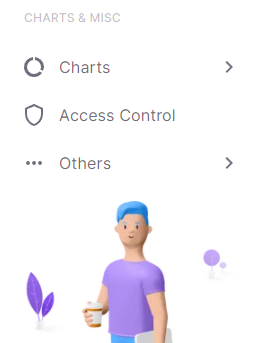
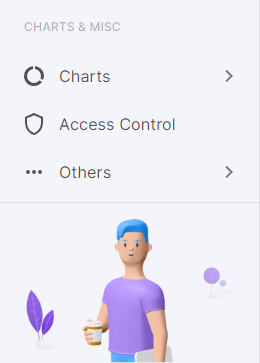
feat(vertical-menu): before & after content position
Add an option for before & after content to get or not to get scrolled with the menu

diff --git a/typescript-version/full-version/src/@core/layouts/components/vertical/navigation/index.tsx b/typescript-version/full-version/src/@core/layouts/components/vertical/navigation/index.tsx
@@ -13,6 +13,8 @@ import PerfectScrollbar from 'react-perfect-scrollbar'
 import { Settings } from 'src/@core/context/settingsContext'
 import { VerticalNavItemsType } from 'src/@core/layouts/types'
 
+import themeConfig from 'src/configs/themeConfig'
+
 // ** Component Imports
 import Drawer from './Drawer'
 import VerticalNavItems from './VerticalNavItems'
@@ -76,6 +78,7 @@ const Navigation = (props: Props) => {
 
   // ** Var
   const { skin } = settings
+  const { afterVerticalNavMenuContentPosition, beforeVerticalNavMenuContentPosition } = themeConfig
 
   // ** Fixes Navigation InfiniteScroll
   const handleInfiniteScroll = (ref: HTMLElement) => {
@@ -94,16 +97,18 @@ const Navigation = (props: Props) => {
 
   // ** Scroll Menu
   const scrollMenu = (container: any) => {
-    container = hidden ? container.target : container
-    if (shadowRef && container.scrollTop > 0) {
-      // @ts-ignore
-      if (!shadowRef.current.classList.contains('d-block')) {
+    if (beforeVerticalNavMenuContentPosition === 'static') {
+      container = hidden ? container.target : container
+      if (shadowRef && container.scrollTop > 0) {
         // @ts-ignore
-        shadowRef.current.classList.add('d-block')
+        if (!shadowRef.current.classList.contains('d-block')) {
+          // @ts-ignore
+          shadowRef.current.classList.add('d-block')
+        }
+      } else {
+        // @ts-ignore
+        shadowRef.current.classList.remove('d-block')
       }
-    } else {
-      // @ts-ignore
-      shadowRef.current.classList.remove('d-block')
     }
   }
 
@@ -131,7 +136,12 @@ const Navigation = (props: Props) => {
   return (
     <Drawer {...props}>
       <VerticalNavHeader {...props} />
-      <StyledBoxForShadow ref={shadowRef} sx={{ background: shadowBgColor() }} />
+      {beforeVerticalNavMenuContent && beforeVerticalNavMenuContentPosition === 'fixed'
+        ? beforeVerticalNavMenuContent(props)
+        : null}
+      {beforeVerticalNavMenuContentPosition === 'static' && (
+        <StyledBoxForShadow ref={shadowRef} sx={{ background: shadowBgColor() }} />
+      )}
       <Box sx={{ position: 'relative', overflow: 'hidden' }}>
         {/* @ts-ignore */}
         <ScrollWrapper
@@ -146,7 +156,9 @@ const Navigation = (props: Props) => {
                 onScrollY: (container: any) => scrollMenu(container)
               })}
         >
-          {beforeVerticalNavMenuContent ? beforeVerticalNavMenuContent(props) : null}
+          {beforeVerticalNavMenuContent && beforeVerticalNavMenuContentPosition === 'static'
+            ? beforeVerticalNavMenuContent(props)
+            : null}
           {userVerticalNavMenuContent ? (
             userVerticalNavMenuContent(props)
           ) : (
@@ -160,9 +172,14 @@ const Navigation = (props: Props) => {
               />
             </List>
           )}
-          {afterVerticalNavMenuContent ? afterVerticalNavMenuContent(props) : null}
+          {afterVerticalNavMenuContent && afterVerticalNavMenuContentPosition === 'static'
+            ? afterVerticalNavMenuContent(props)
+            : null}
         </ScrollWrapper>
       </Box>
+      {afterVerticalNavMenuContent && afterVerticalNavMenuContentPosition === 'fixed'
+        ? afterVerticalNavMenuContent(props)
+        : null}
     </Drawer>
   )
 }

diff --git a/typescript-version/full-version/src/configs/themeConfig.ts b/typescript-version/full-version/src/configs/themeConfig.ts
@@ -20,6 +20,7 @@ type ThemeConfig = {
   footer: Footer
   mode: PaletteMode
   navHidden: boolean
+  navSubItemIcon: any
   direction: Direction
   templateName: string
   navCollapsed: boolean
@@ -27,7 +28,6 @@ type ThemeConfig = {
   disableRipple: boolean
   navigationSize: number
   menuTextTruncate: boolean
-  navSubItemIcon: any
   contentWidth: ContentWidth
   disableCustomizer: boolean
   responsiveFontSizes: boolean
@@ -36,6 +36,8 @@ type ThemeConfig = {
   layout: 'vertical' | 'horizontal'
   verticalNavToggleType: VerticalNavToggle
   horizontalMenuToggle: HorizontalMenuToggle
+  afterVerticalNavMenuContentPosition: 'fixed' | 'static'
+  beforeVerticalNavMenuContentPosition: 'fixed' | 'static'
   toastPosition: 'top-left' | 'top-center' | 'top-right' | 'bottom-left' | 'bottom-center' | 'bottom-right'
 }
 
@@ -60,6 +62,8 @@ const themeConfig: ThemeConfig = {
   navCollapsed: false /* true | false /*! Note: This is for Vertical navigation menu only */,
   navigationSize: 260 /* Number in PX(Pixels) /*! Note: This is for Vertical navigation menu only */,
   collapsedNavigationSize: 69 /* Number in PX(Pixels) /*! Note: This is for Vertical navigation menu only */,
+  afterVerticalNavMenuContentPosition: 'fixed' /* fixed | static */,
+  beforeVerticalNavMenuContentPosition: 'fixed' /* fixed | static */,
   horizontalMenuToggle: 'hover' /* click | hover /*! Note: This is for Horizontal navigation menu only */,
   horizontalMenuAnimation: true /* true | false */,
 

diff --git a/typescript-version/full-version/src/@core/layouts/components/vertical/navigation/VerticalNavSectionTitle.tsx b/typescript-version/full-version/src/@core/layouts/components/vertical/navigation/VerticalNavSectionTitle.tsx
@@ -27,7 +27,7 @@ const ListSubheader = styled((props: ListSubheaderProps) => <MuiListSubheader co
   ({ theme }) => ({
     lineHeight: 1,
     display: 'flex',
-    position: 'relative',
+    position: 'static',
     padding: theme.spacing(4),
     marginTop: theme.spacing(3),
     paddingTop: theme.spacing(4.5),

diff --git a/docs/guide/settings/theme-config.md b/docs/guide/settings/theme-config.md
@@ -2,12 +2,12 @@
 
 ## Overview
 
-To configure your template, we will be using `/src/configs/themeConfig.ts` file, which has all the template configurations listed with their valid values. Just change the configurations as per your requirement and you are done.
+To configure your template, we will be using the `/src/configs/themeConfig.ts` file, which has all the template configurations listed with their valid values. Just change the configurations as per your requirement and you are done.
 
 If you are looking to match up with one of our demos, then please read [demo configs](/guide/development/demo-config.html) doc.
 
 ::: danger Important
-Make sure you clear the browser local storage in order to see the config changes in the template. Refer: <strong>[How to clear local storage?](https://www.leadshook.com/help/how-to-clear-local-storage-in-google-chrome-browser/)</strong>
+Make sure you clear the browser's local storage in order to see the config changes in the template. Refer: <strong>[How to clear local storage?](https://www.leadshook.com/help/how-to-clear-local-storage-in-google-chrome-browser/)</strong>
 :::
 
 ## Properties
@@ -33,6 +33,8 @@ const themeConfig: ThemeConfig = {
   navCollapsed: false,
   navigationSize: 260,
   collapsedNavigationSize: 69,
+  afterVerticalNavMenuContentPosition: 'fixed',
+  beforeVerticalNavMenuContentPosition: 'fixed',
   horizontalMenuToggle: 'hover',
   horizontalMenuAnimation: true,
   appBar: 'fixed',
@@ -62,6 +64,8 @@ const themeConfig = {
   navCollapsed: false,
   navigationSize: 260,
   collapsedNavigationSize: 69,
+  afterVerticalNavMenuContentPosition: 'fixed',
+  beforeVerticalNavMenuContentPosition: 'fixed',
   horizontalMenuToggle: 'hover',
   horizontalMenuAnimation: true,
   appBar: 'fixed',
@@ -73,6 +77,34 @@ const themeConfig = {
 ```
 </code-block>
 </code-group>
+
+### beforeVerticalNavMenuContentPosition
+
+If the value is set to `static`, then the content will get scrolled along with the vertical navigation. If the value is set to `fixed`, then the content will not get scrolled along with the vertical navigation.
+
+#### beforeVerticalNavMenuContentPosition: 'static'
+
+<br />
+<img class='medium-zoom' alt='add-static-content-before-menu-items' :src="$withBase('/images/settings/static-before-content.png')" />
+
+#### beforeVerticalNavMenuContentPosition: 'fixed'
+
+<br />
+<img class='medium-zoom' alt='add-fixed-content-before-menu-items' :src="$withBase('/images/settings/fixed-before-content.png')" />
+
+### afterVerticalNavMenuContentPosition
+
+If the value is set to `static`, then the content will get scrolled along with the vertical navigation. If the value is set to `fixed`, then the content will not get scrolled along with the vertical navigation.
+
+#### afterVerticalNavMenuContentPosition: 'static'
+
+<br />
+<img class='medium-zoom' alt='add-static-content-after-menu-items' :src="$withBase('/images/settings/static-after-content.png')" />
+
+#### afterVerticalNavMenuContentPosition: 'fixed'
+
+<br />
+<img class='medium-zoom' alt='add-fixed-content-after-menu-items' :src="$withBase('/images/settings/fixed-after-content.png')" />
 
 ## Property Options
 
@@ -95,6 +127,8 @@ Following is the table of all the properties and their possible values that are 
 | navCollapsed | `true`, `false` | If `true`, the vertical navigation menu is collapsed |
 | navigationSize | `number` | Width of navigation menu when menu is not collapsed |
 | collapsedNavigationSize | `number` | Width of navigation menu when menu is collapsed |
+| afterVerticalNavMenuContentPosition | `'fixed'`, `'static'` | Position of the content which is added after the vertical navigation menu |
+| beforeVerticalNavMenuContentPosition | `'fixed'`, `'static'` | Position of the content which is added before the vertical navigation menu |
 | horizontalMenuToggle | `'click'`, `'hover'` | Set behavior of menu group in the horizontal navigation menu |
 | horizontalMenuAnimation | `true`, `false` | If `true`, animation is enabled for the horizontal navigation menu |
 | appBar | `'fixed'`, `'static'`, `'hidden'` | Change appBar position |

diff --git a/docs/guide/layout/layout-overrides.md b/docs/guide/layout/layout-overrides.md
@@ -308,7 +308,7 @@ const User = () => {
   }))
 
   return (
-    <Box sx={{ pt: 2, pb: 3, px: 4 }}>
+    <Box sx={{ mb: 2, pb: 3, px: 4, borderBottom: theme => `1px solid ${theme.palette.divider}` }}>
       <Box sx={{ display: 'flex', alignItems: 'center' }}>
         <Badge
           overlap='circular'
@@ -365,7 +365,7 @@ const User = () => {
   }))
 
   return (
-    <Box sx={{ pt: 2, pb: 3, px: 4 }}>
+    <Box sx={{ mb: 2, pb: 3, px: 4, borderBottom: theme => `1px solid ${theme.palette.divider}` }}>
       <Box sx={{ display: 'flex', alignItems: 'center' }}>
         <Badge
           overlap='circular'
@@ -433,7 +433,14 @@ interface Props {
 
 const MenuFooter = () => {
   return (
-    <Box sx={{ mt: 4, display: 'flex', justifyContent: 'center' }}>
+    <Box
+      sx={{
+        pt: 4,
+        display: 'flex',
+        justifyContent: 'center',
+        borderTop: theme => `1px solid ${theme.palette.divider}`
+      }}
+    >
       <img src='...' width='230' height='144' alt='menu-footer' />
     </Box>
   )
@@ -461,7 +468,14 @@ import Layout from 'src/@core/layouts/Layout'
 
 const MenuFooter = () => {
   return (
-    <Box sx={{ mt: 4, display: 'flex', justifyContent: 'center' }}>
+    <Box
+      sx={{
+        pt: 4,
+        display: 'flex',
+        justifyContent: 'center',
+        borderTop: theme => `1px solid ${theme.palette.divider}`
+      }}
+    >
       <img src='...' width='230' height='144' alt='menu-footer' />
     </Box>
   )
@@ -485,7 +499,7 @@ export default UserLayout
 
 Result:
 
-<img alt='add-content-before-menu-items' class='medium-zoom' :src="$withBase('/images/layouts/user-add-content-after-menu-items.png')" />
+<img alt='add-content-after-menu-items' class='medium-zoom' :src="$withBase('/images/layouts/user-add-content-after-menu-items.png')" />
 
 ### 6. Hide menu based on screen size
 
